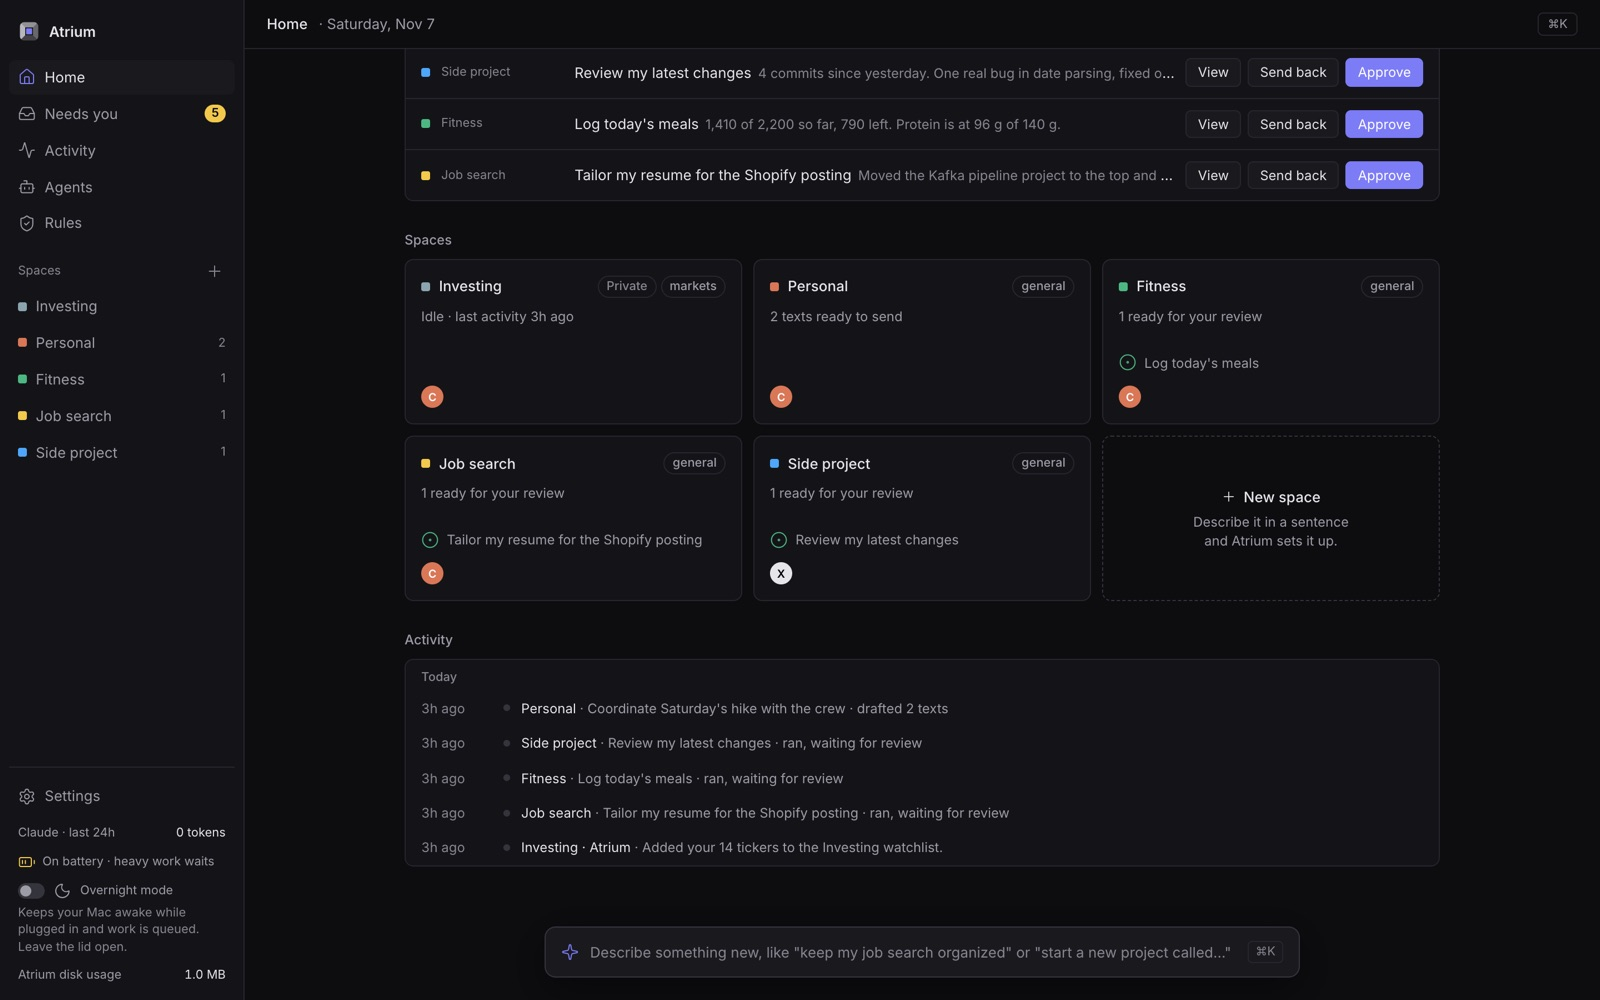
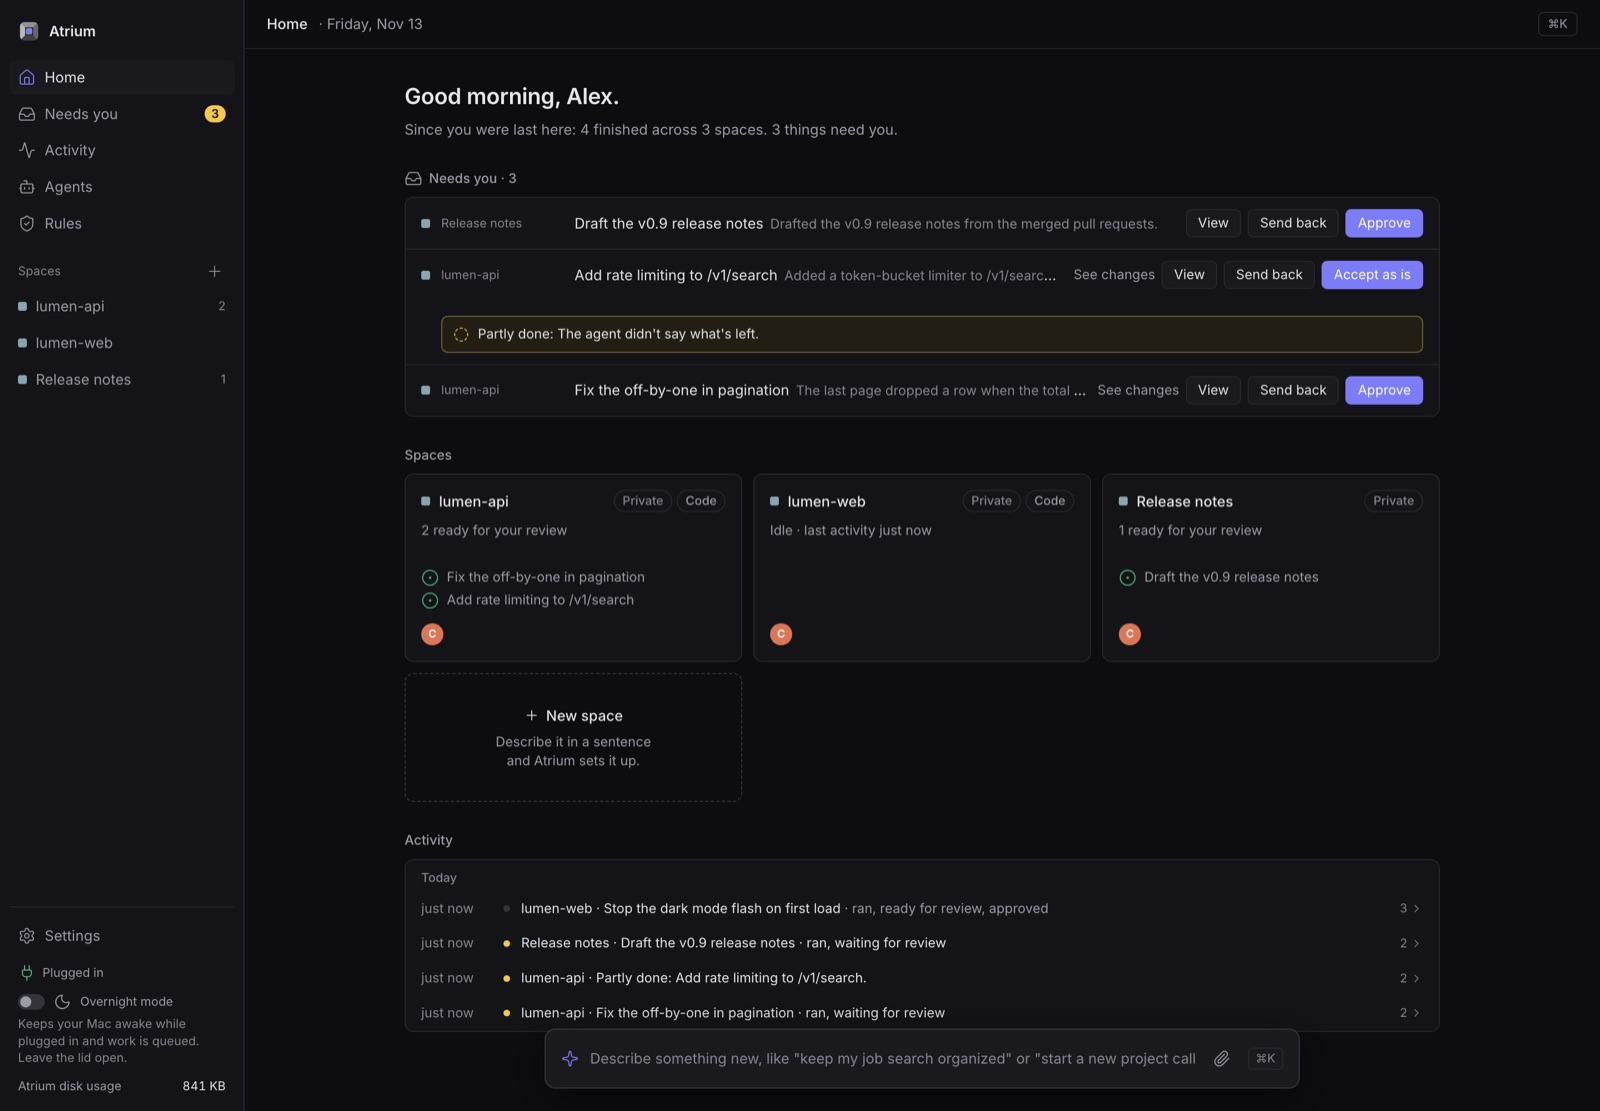
Rewrite the README around the coding workbench, with fresh screenshots

diff --git a/README.md b/README.md
@@ -1,27 +1,40 @@
 # Atrium
 
-A calm command center for your AI agents, on your Mac.
+An agent workbench for coding, on your Mac.
 
-You tell Atrium what you want in plain words. It hands the job to an AI agent, shows you what came back, and waits for your yes before anything counts. Code, and the everyday jobs around it, live in one place. Everything runs on your Mac.
+The job has moved from writing code to directing agents and judging what they wrote. Atrium is where that happens: you say what you want, an agent writes it on its own branch, you watch and steer, and nothing lands until you say yes. Everything runs on your Mac, on your own Claude subscription.
 
 Site: <https://nakulpatel0306.github.io/atrium/>
 
-![Atrium's Home: finished work waiting for a yes, your spaces, and what happened today](docs/screenshots/home.jpg)
+![Atrium's Home: finished work waiting for a yes, code spaces, and what happened today](docs/screenshots/home.jpg)
 
-## What it does
+## What works today
 
-- **Everyday life and work.** Ask for a grocery list, a packing plan or a study guide. You get a file you can open in Finder.
-- **Code.** Point it at a repo and ask for a fix or a review. Agents work on their own branch, and you review every change. Starting a new project creates the GitHub repo too, after you say yes.
+- **Code spaces.** Point a space at a repo on your Mac or on GitHub. Every task runs on its own `atrium/<taskId>` branch, and Atrium never checks out over your uncommitted changes.
+- **Live diff and steer.** Watch the diff grow while the agent works, and send it a note to change course without starting over.
+- **Pull requests.** Approve the work and Atrium pushes the branch and opens the PR. Starting a new project creates the GitHub repo too. Both wait for your yes.
+- **Attachments.** Drop files or screenshots into the ask bar and the agent works from them.
+- **Approvals.** Everything that needs you waits in **Needs you**, with the agent's own word on how it went: done, partly done or couldn't. Rules can approve kinds of work you keep approving; pushes, merges, deploys, deletes and anything that costs money always ask.
+- **Claude, Codex and Gemini.** Claude runs on your subscription through the Claude Code CLI. Add Codex or Gemini and Atrium routes code work between them, or you pick one per task. A second agent can review finished work before you see it.
+- **Sandboxing.** Agents can't read your keys, `.env` files or passwords, can't reach Atrium's own API, and can't drive other apps.
+- **General spaces** for the work around the code: notes, release drafts and docs, as files in a folder you can open in Finder.
 
-Work is organized into **spaces**. Each space has **tasks**, and each task goes to an agent: Claude on your Claude subscription, or Codex and Gemini for some code work. Anything that needs you waits in **Needs you**.
+## Coming next: the loop
+
+The direction is one loop for every task: **brief → write → verify → review → you.** None of these are shipped yet:
+
+- a **brief** that turns a one-line ask into goals, acceptance criteria and a check command;
+- a **verification gate** where Atrium itself runs your tests and typecheck, so "ready" means green;
+- a **fresh reviewer** that reads the diff against the brief before you do;
+- **budgets and loop detection**, so a stuck agent pauses instead of burning tokens.
 
 ## Screenshots
 
-All screenshots use made-up data.
+All screenshots come from a throwaway engine with fake agents and made-up repos.
 
 | | |
 |---|---|
-| ![Get started: checking that Claude, Codex and Gemini are installed and signed in](docs/screenshots/setup.jpg) | |
+| ![Get started, step 2 of 5: checking that Claude, Codex and Gemini are installed and signed in](docs/screenshots/setup.jpg) | |
 | **Get started** checks your agents and walks you through setup. | |
 
 ## Requirements
@@ -47,13 +60,14 @@ Don't move or delete the folder after `atrium install`: the login service points
 
 ## First run
 
-Open the app (or run `atrium open`). On a fresh install, **Get started** walks you through it: your agents (Claude Code is required, Codex and Gemini are optional), the GitHub CLI, and your name and projects folder. You can skip everything except Claude and come back from **Settings → Get started**.
+Open the app (or run `atrium open`). On a fresh install, **Get started** walks you through five short steps: a welcome, your agents (Claude Code is required, Codex and Gemini are optional), the GitHub CLI, your name and projects folder, and a last check. You can skip everything except Claude and come back from **Settings → Get started**.
 
 From a terminal, `atrium doctor` shows the same checks, with the install and sign-in command for anything missing.
 
 ## Privacy and safety
 
 - Your data stays on your Mac. The database, transcripts and space files are under your data folder (`atrium data` lists them with sizes). This repository contains no personal data.
+- Upgrading from a version with mail, texting, money or investing? Those features are gone, but their data may still be in the database, along with sign-in tokens and market-data keys in your login Keychain (service `Atrium`). Home and **Settings → Data** offer **Remove old data**, and so does `atrium data remove-old`. Both show exactly what will go and remove nothing until you confirm.
 - To remove all personal data, run `atrium uninstall`, quit Atrium, then delete `~/Library/Application Support/Atrium` and `~/Atrium`.
 - Agents run in a sandbox: they can't read your passwords or keys, can't control other apps, and can't change Atrium itself.
 - Only Atrium pushes code or creates repos, and only after you approve. Private spaces only use Claude.
@@ -62,7 +76,7 @@ From a terminal, `atrium doctor` shows the same checks, with the install and sig
 ## Known limits
 
 - macOS only.
-- An older database keeps the tables of features that were removed (investing, money, mail and calendar, texting). Atrium no longer reads them; spaces of those kinds show as plain private spaces.
+- An older database keeps the tables of features that were removed (investing, money, mail and calendar, texting) until you remove them (see Privacy and safety). Atrium never reads them; spaces of those kinds show as plain private spaces.
 
 ## For developers
 
